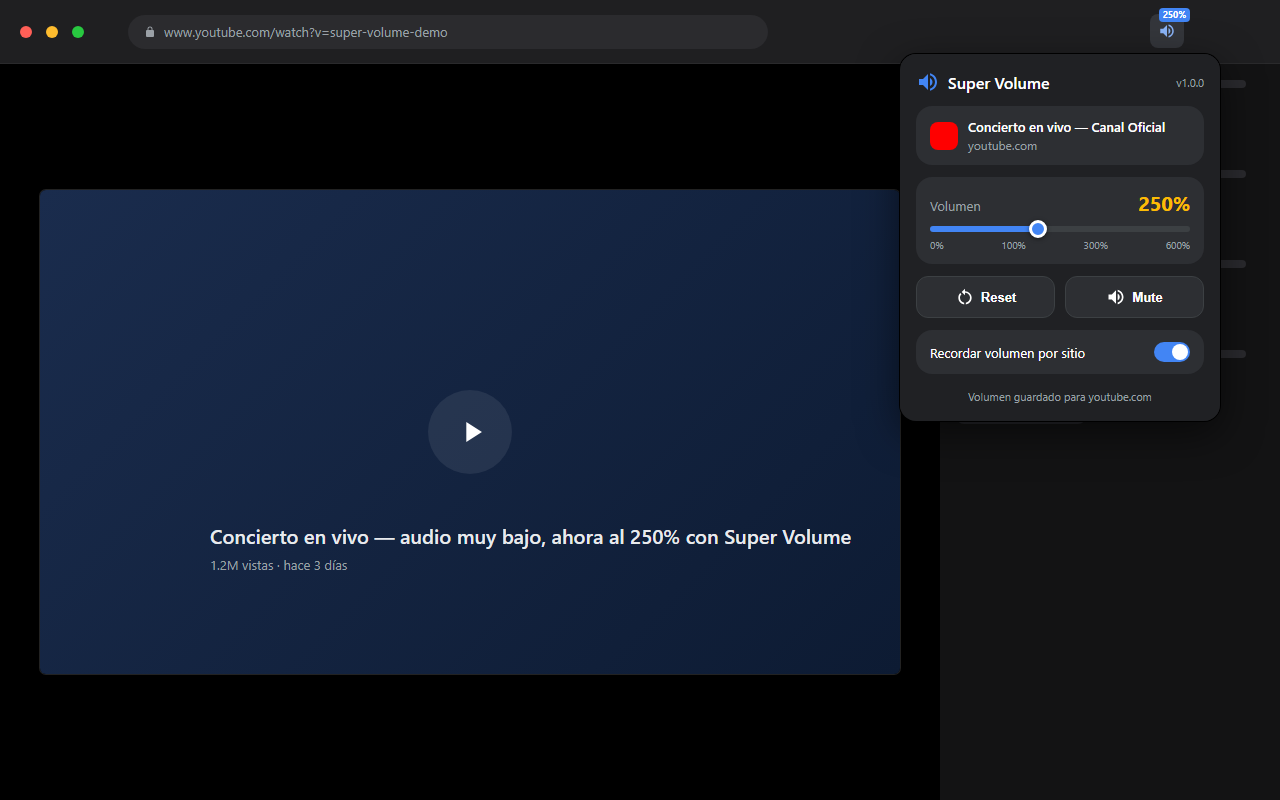
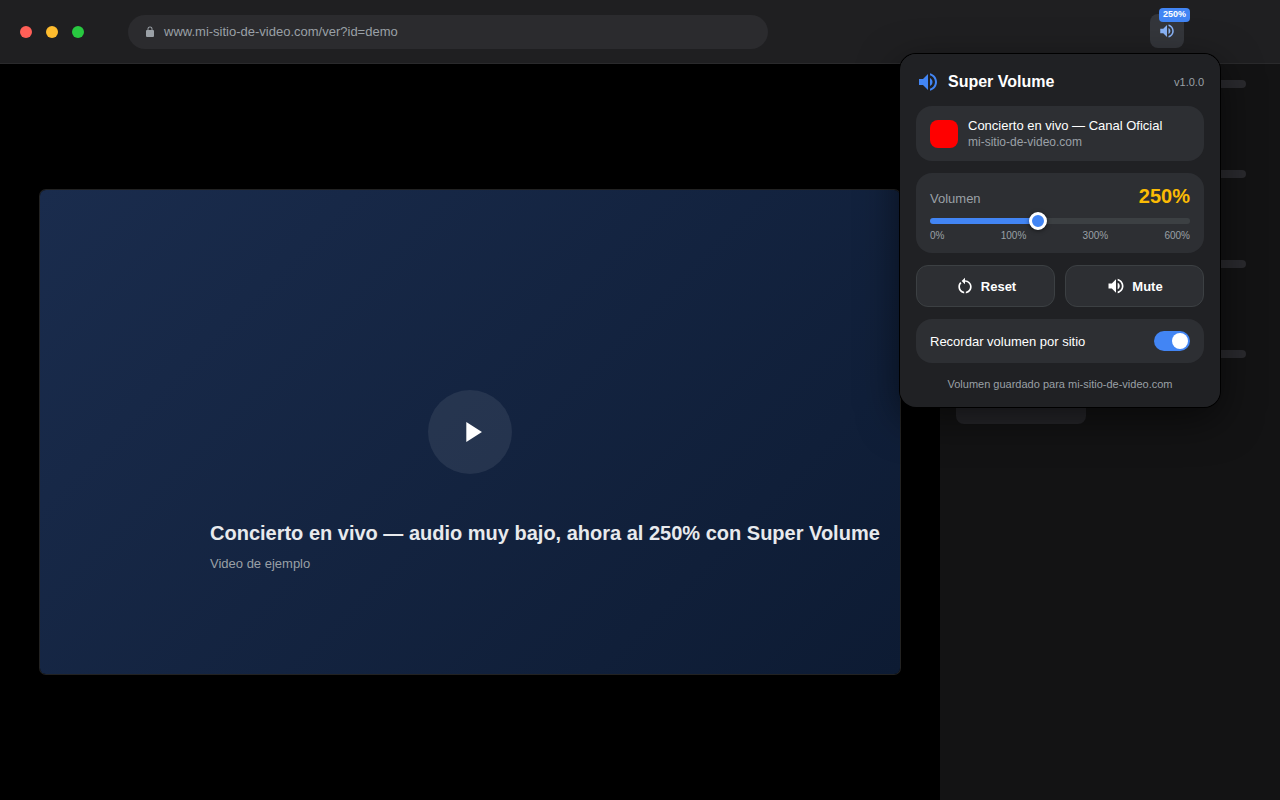
update

diff --git a/store-assets/shot1.html b/store-assets/shot1.html
@@ -140,7 +140,7 @@
       <div class="dot dot--r"></div><div class="dot dot--y"></div><div class="dot dot--g"></div>
       <div class="url-pill">
         <svg class="lock" viewBox="0 0 24 24"><path d="M12 17a2 2 0 002-2 2 2 0 00-2-2 2 2 0 00-2 2 2 2 0 002 2zm6-9h-1V6a5 5 0 00-10 0v2H6a2 2 0 00-2 2v10a2 2 0 002 2h12a2 2 0 002-2V10a2 2 0 00-2-2zM8.9 6c0-1.71 1.39-3.1 3.1-3.1 1.71 0 3.1 1.39 3.1 3.1v2H8.9V6z"/></svg>
-        www.youtube.com/watch?v=super-volume-demo
+        www.mi-sitio-de-video.com/ver?id=demo
       </div>
     </div>
     <div class="ext-anchor">
@@ -153,7 +153,7 @@
           <div class="play-glyph"><svg viewBox="0 0 24 24"><path d="M8 5v14l11-7z"/></svg></div>
         </div>
         <div class="video-title">Concierto en vivo — audio muy bajo, ahora al 250% con Super Volume</div>
-        <div class="video-sub">1.2M vistas · hace 3 días</div>
+        <div class="video-sub">Video de ejemplo</div>
       </div>
       <div class="sidebar">
         <div class="thumb"><div class="thumb-box"></div><div class="thumb-lines"><div></div><div></div></div></div>
@@ -181,7 +181,7 @@
           <span class="site-card__favicon"></span>
           <div class="site-card__info">
             <p class="site-card__title">Concierto en vivo — Canal Oficial</p>
-            <p class="site-card__domain">youtube.com</p>
+            <p class="site-card__domain">mi-sitio-de-video.com</p>
           </div>
         </section>
 
@@ -215,7 +215,7 @@
         </section>
 
         <footer class="app__footer">
-          <span class="app__status">Volumen guardado para youtube.com</span>
+          <span class="app__status">Volumen guardado para mi-sitio-de-video.com</span>
         </footer>
       </div>
     </div>

diff --git a/store-assets/shot2.html b/store-assets/shot2.html
@@ -29,7 +29,7 @@
   .icon--brand svg { width: 100%; height: 100%; fill: currentColor; }
   .card { background: var(--card); border-radius: var(--radius-lg); padding: 12px 14px; }
   .site-card { display: flex; align-items: center; gap: 10px; }
-  .site-card__favicon { width: 28px; height: 28px; border-radius: var(--radius-sm); background: #e50914; flex-shrink: 0; }
+  .site-card__favicon { width: 28px; height: 28px; border-radius: var(--radius-sm); background: #6b6f76; flex-shrink: 0; }
   .site-card__info { min-width: 0; flex: 1; }
   .site-card__title { margin: 0; font-size: 13px; font-weight: 500; white-space: nowrap; overflow: hidden; text-overflow: ellipsis; }
   .site-card__domain { margin: 2px 0 0; font-size: 12px; color: var(--text-secondary); }
@@ -57,7 +57,7 @@
       <div class="dot dot--r"></div><div class="dot dot--y"></div><div class="dot dot--g"></div>
       <div class="url-pill">
         <svg class="lock" viewBox="0 0 24 24"><path d="M12 17a2 2 0 002-2 2 2 0 00-2-2 2 2 0 00-2 2 2 2 0 002 2zm6-9h-1V6a5 5 0 00-10 0v2H6a2 2 0 00-2 2v10a2 2 0 002 2h12a2 2 0 002-2V10a2 2 0 00-2-2zM8.9 6c0-1.71 1.39-3.1 3.1-3.1 1.71 0 3.1 1.39 3.1 3.1v2H8.9V6z"/></svg>
-        www.netflix.com/watch/super-volume-demo
+        www.mi-plataforma-streaming.com/ver/demo
       </div>
     </div>
     <div class="content">
@@ -83,7 +83,7 @@
           <span class="site-card__favicon"></span>
           <div class="site-card__info">
             <p class="site-card__title">Serie — Temporada 2, Episodio 4</p>
-            <p class="site-card__domain">netflix.com</p>
+            <p class="site-card__domain">mi-plataforma-streaming.com</p>
           </div>
         </section>
 

diff --git a/store-assets/shot3.html b/store-assets/shot3.html
@@ -46,7 +46,7 @@
       <p class="sub">Amplifica el audio de cualquier pestaña con Web Audio API, sin tocar el volumen del sistema operativo.</p>
       <div class="features">
         <div class="feature"><svg viewBox="0 0 24 24"><path d="M9 16.2 4.8 12l-1.4 1.4L9 19 21 7l-1.4-1.4z"/></svg> Recuerda el volumen por sitio web</div>
-        <div class="feature"><svg viewBox="0 0 24 24"><path d="M9 16.2 4.8 12l-1.4 1.4L9 19 21 7l-1.4-1.4z"/></svg> Funciona en YouTube, Netflix, Spotify y más</div>
+        <div class="feature"><svg viewBox="0 0 24 24"><path d="M9 16.2 4.8 12l-1.4 1.4L9 19 21 7l-1.4-1.4z"/></svg> Funciona en cualquier pestaña con audio o video</div>
         <div class="feature"><svg viewBox="0 0 24 24"><path d="M9 16.2 4.8 12l-1.4 1.4L9 19 21 7l-1.4-1.4z"/></svg> 100% local, sin envío de datos</div>
       </div>
     </div>

diff --git a/docs/index.html b/docs/index.html
@@ -273,8 +273,7 @@
   <p class="lede">
     Amplifica el audio de la pestaña activa usando la Web Audio API del propio
     navegador, sin tocar en ningún momento el volumen del sistema operativo.
-    Funciona en YouTube, Netflix, Spotify Web, Twitch y cualquier sitio con
-    video o audio.
+    Funciona en cualquier sitio con video o audio.
   </p>
 
   <div class="cta-row">

diff --git a/README.md b/README.md
@@ -1,13 +1,12 @@
 # 🔊 Super Volume
-<!-- https://claude.ai/code/artifact/9396f99c-1b3e-493b-9532-e70f81f988b5?via=auto_preview -->
+
 Extensión para **Google Chrome** (Manifest V3) que permite aumentar el volumen
 de la pestaña activa hasta **600%** usando la **Web Audio API** (`AudioContext`
 + `GainNode`), sin tocar en ningún momento el volumen del sistema operativo.
 
 Diseño oscuro inspirado en las apps de Google, slider animado, recuerda el
 volumen por dominio y funciona automáticamente en cualquier página con
-elementos `<video>` o `<audio>` (YouTube, Netflix, Twitch, Spotify Web,
-Facebook Videos, Vimeo, TikTok, etc.).
+elementos `<video>` o `<audio>`.
 
 - **Autor:** [alvarosiles](https://github.com/alvarosiles)
 - **Contacto:** alvarosiles.developer@gmail.com
@@ -38,14 +37,13 @@ Facebook Videos, Vimeo, TikTok, etc.).
 - Porcentaje actual visible en tiempo real.
 - Botón **Reset** (vuelve a 100%).
 - Botón **Mute** / Unmute.
-- **Recuerda el volumen por dominio** (ej: `youtube.com → 250%`,
-  `spotify.com → 180%`, `netflix.com → 300%`), con un interruptor para
-  activar/desactivar ese comportamiento.
+- **Recuerda el volumen por dominio** (ej: un sitio a 250%, otro a 180%),
+  con un interruptor para activar/desactivar ese comportamiento.
 - El volumen guardado se re-aplica automáticamente al volver a visitar el
   sitio, sin necesidad de abrir el popup.
 - Solo afecta a la **pestaña activa**.
 - Detecta automáticamente elementos `<video>` y `<audio>`, incluidos los
-  que aparecen dinámicamente en sitios SPA (YouTube, Netflix, TikTok…).
+  que aparecen dinámicamente en sitios de una sola página (SPA).
 - Muestra el **favicon**, el **título** y el **dominio** de la pestaña actual.
 - Indicador (badge) en el icono de la extensión con el % activo del sitio.
 - Tema oscuro estilo Google, esquinas redondeadas, transiciones suaves,
@@ -142,7 +140,7 @@ Hay tres scripts listos para usar (`chmod +x` ya aplicado):
                                #    en un perfil de pruebas aislado en /tmp
                                #    (no toca tu perfil ni tus sesiones reales).
                                #    Acepta una URL opcional:
-                               #    ./scripts/2-test-extension.sh https://youtube.com/...
+                               #    ./scripts/2-test-extension.sh https://ejemplo.com/video
 
 ./scripts/3-build.sh          # 3. Valida manifest.json + sintaxis JS y genera
                                #    dist/super-volume-v<version>.zip listo para
